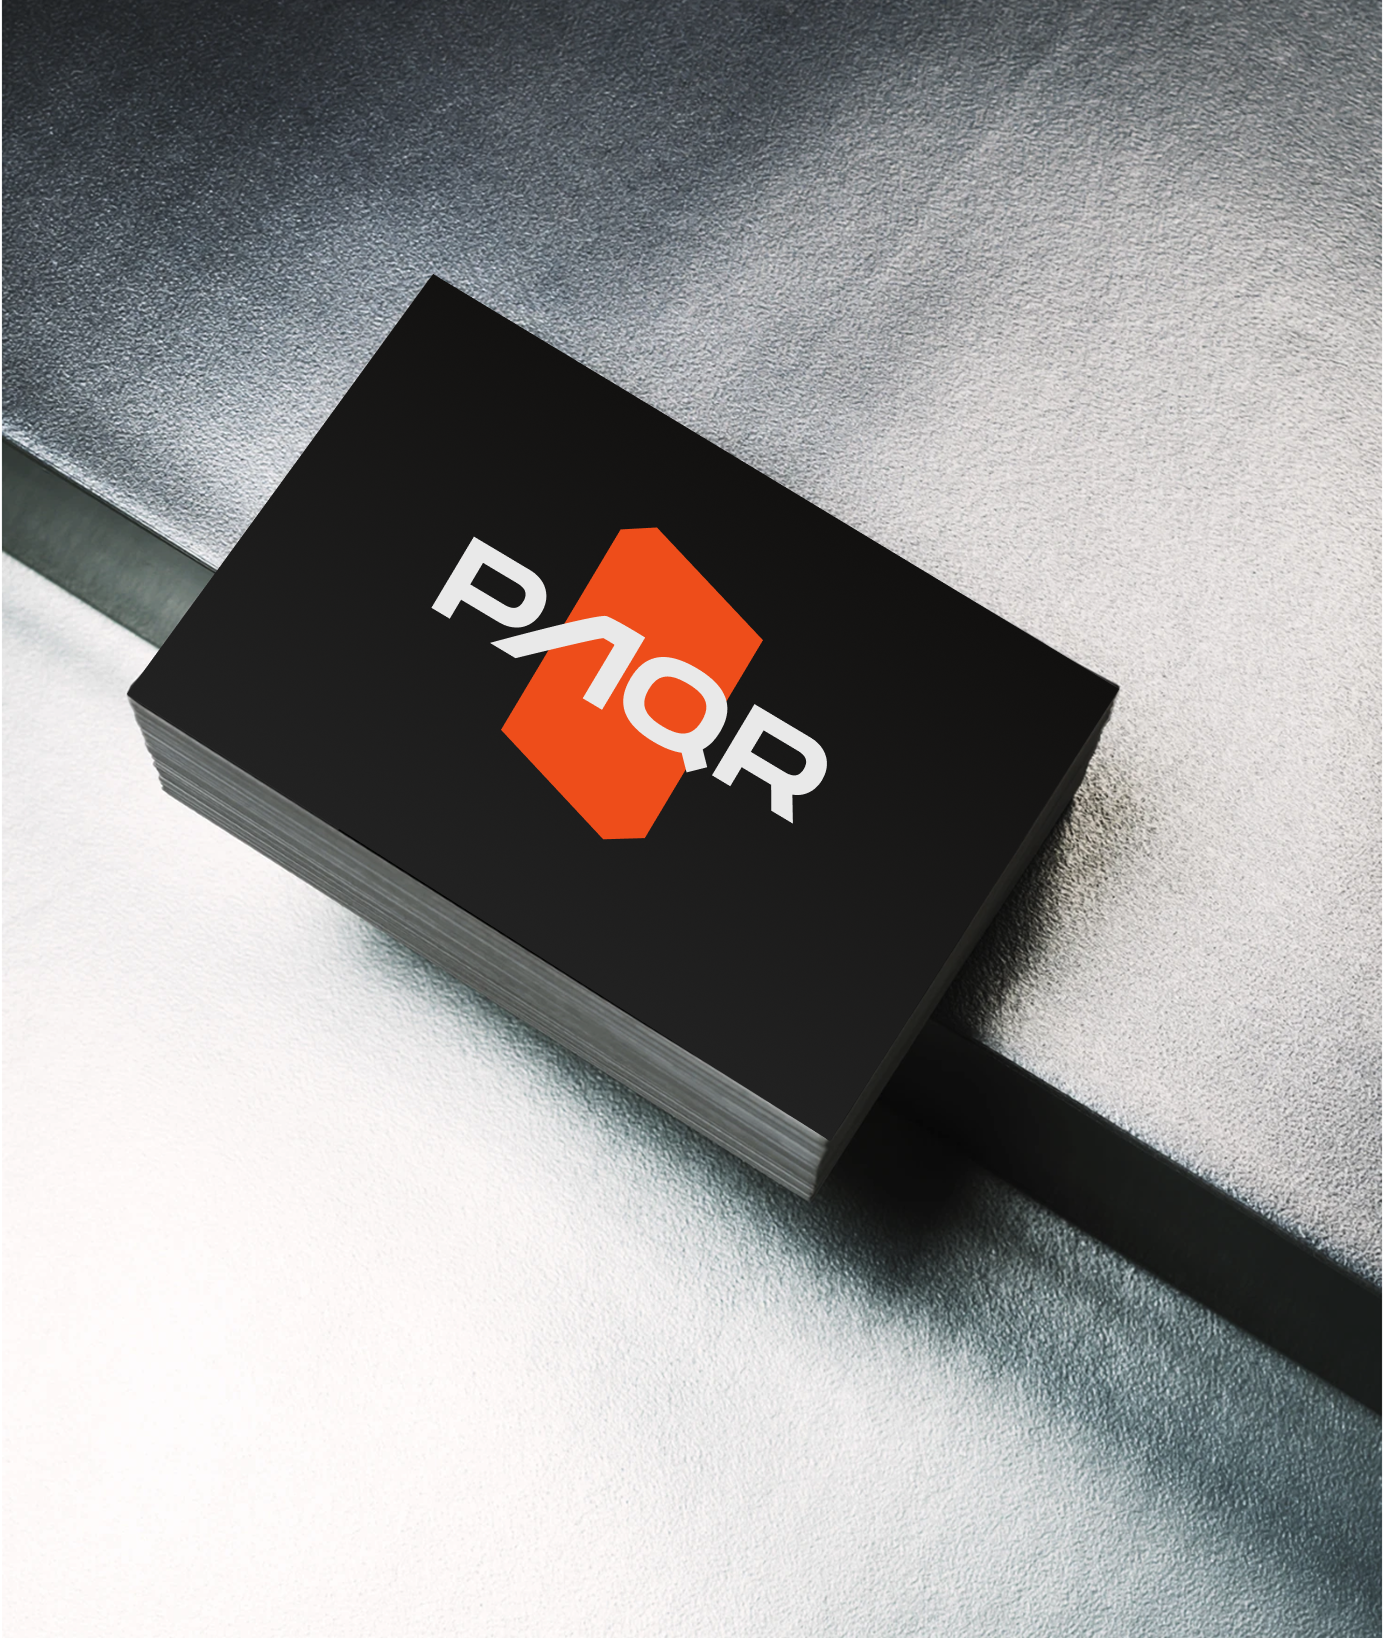
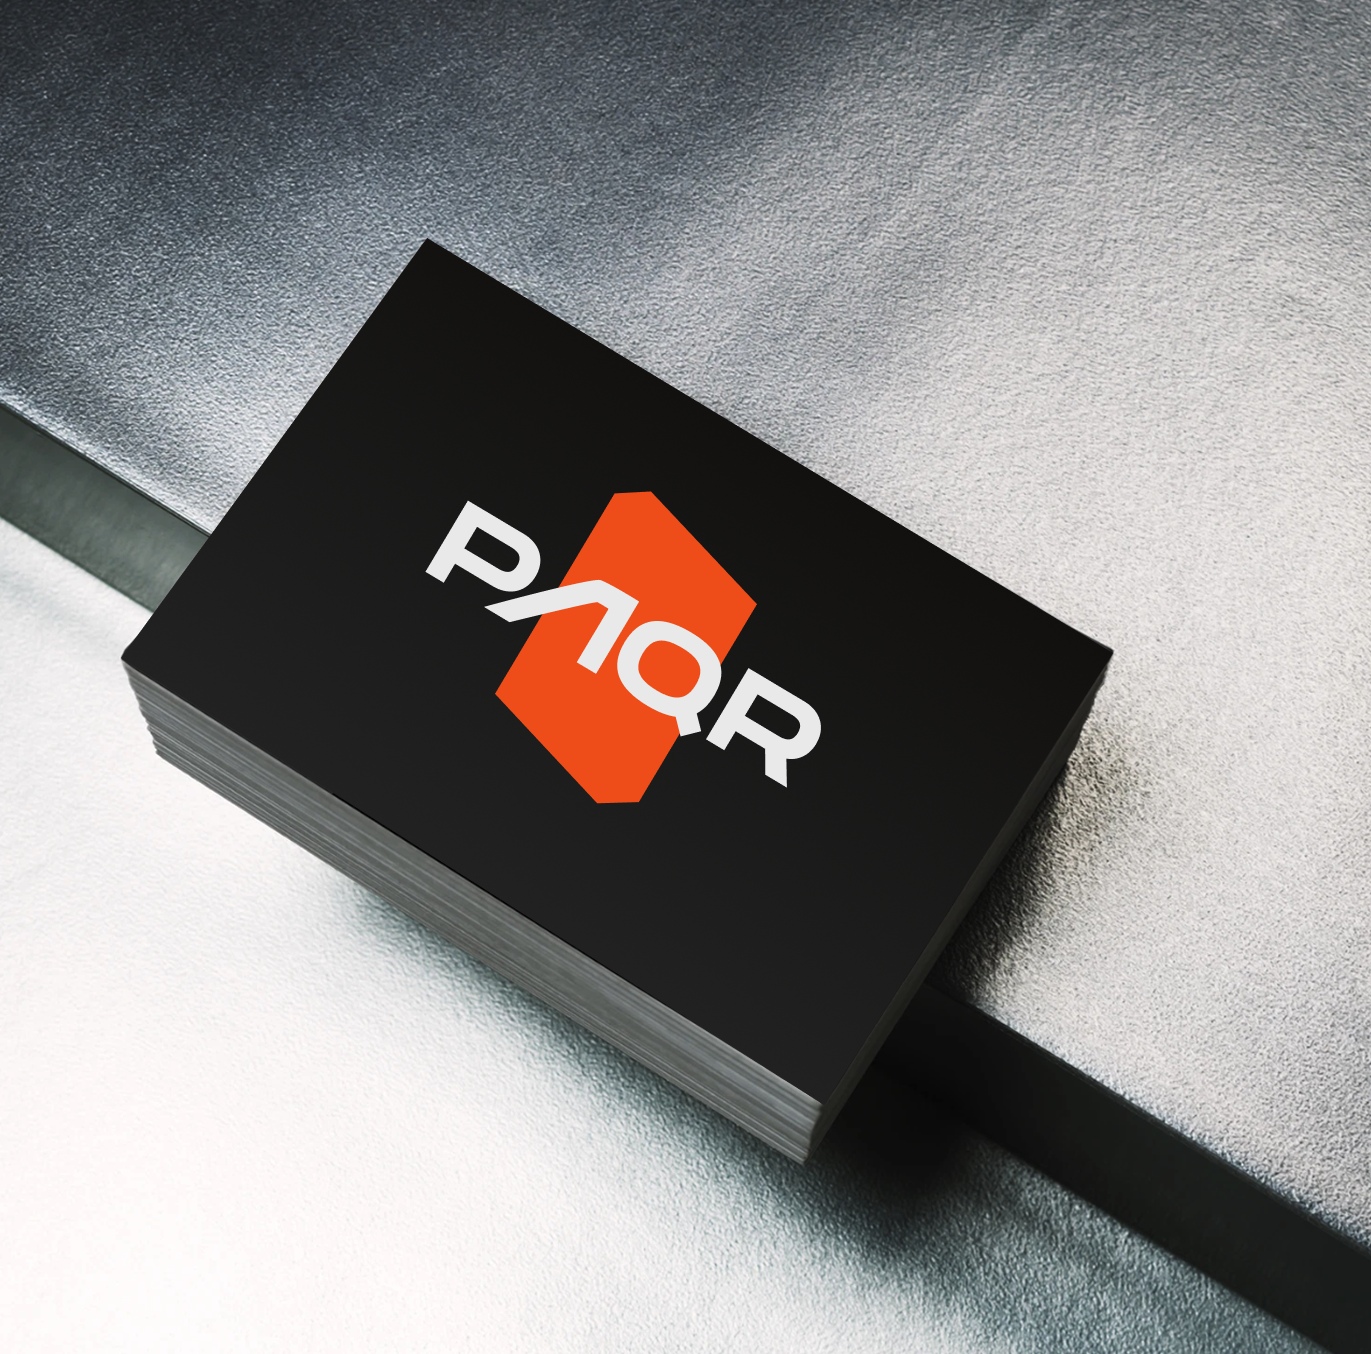
Add video to PAQR What PAQR Does section

diff --git a/paqr.html b/paqr.html
@@ -462,6 +462,9 @@
   </div>
   <div class="cs__images reveal">
     <img class="img-full" src="mockup desktop.png" alt="PAQR — audit-ready desktop platform">
+    <video autoplay loop muted playsinline style="width:100%;height:auto;display:block;margin-top: clamp(48px, 6vw, 80px);">
+      <source src="paqr_whatdoes.mp4" type="video/mp4">
+    </video>
   </div>
 </section>
 
@@ -474,8 +477,17 @@
       <img src="branding PAQR.png" alt="PAQR — brand identity">
       <div class="img-empty"></div>
     </div>
+    <div class="img-pair reveal" style="margin-top: clamp(48px, 6vw, 80px);">
+      <div class="img-empty"></div>
+      <video autoplay loop muted playsinline style="width:100%;height:auto;display:block;">
+        <source src="paqr_loading.mp4" type="video/mp4">
+      </video>
+    </div>
     <img class="img-full reveal" src="colors PAQR.png" alt="PAQR — color system" style="margin-top: clamp(48px, 6vw, 80px);">
     <img class="img-full reveal" src="branding.png" alt="PAQR — branding elements" style="margin-top: clamp(48px, 6vw, 80px);">
+    <video autoplay loop muted playsinline style="width:100%;height:auto;display:block;margin-top: clamp(48px, 6vw, 80px);">
+      <source src="paqr-logovideo.mp4" type="video/mp4">
+    </video>
   </div>
 </section>
 